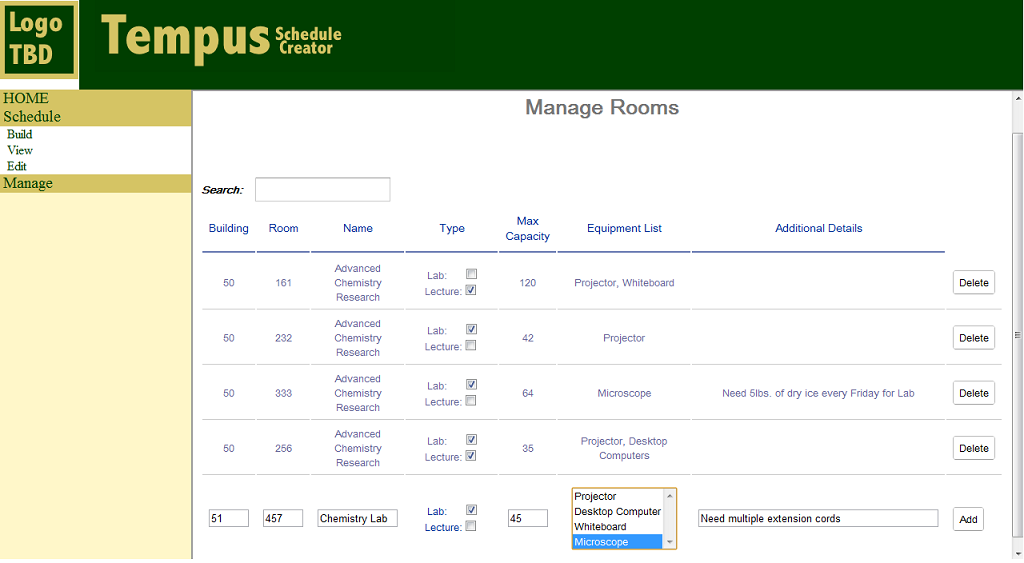
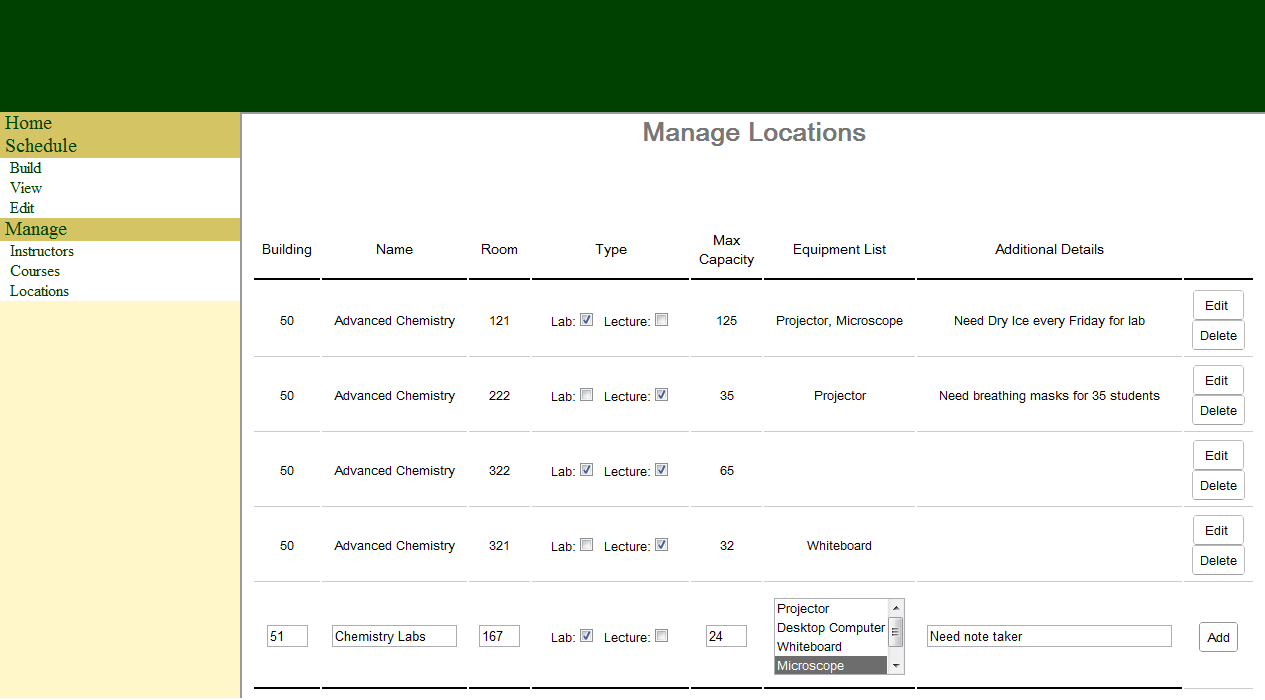
git-svn-id: svn+ssh://scheduler.csc.calpoly.edu/repo@509 13b268f7-8392-4c9d-bc7d-1e80a86bc2f9

diff --git a/requirements/walkthru/room-add.html b/requirements/walkthru/room-add.html
@@ -1,32 +1,21 @@
 <html>
-<head><title>GUI Walkthrough - <em>Manage Classroom</em> Add Room</title></head>
+<head>
+<LINK rel="stylesheet" href="walkthruPage.css" type="text/css">
+</head>
 <body>
-<table cellpadding=10>
-<tr><td>
-<h2 >Add Room</h2>
-</td></tr>
-<tr><td>
-<img src="../images/database-room-add.png">
-</td></tr>
-<tr><td>
-<table width=200 align="center">
-<tr><td align="left">
-<a href="room-manage.html"><-- Prev</a>
-</td><td align="center">
-<a href="index.html">Top</a>
-</td><td align="right">
-<a href="room-remove.html">Next --></a>
-</td></tr>
-</table>
-</td></tr>
-<tr><td>
-<br>This is the dialog that is displayed to the Administrator when trying to Add a Room to the database. 
-The Administrator must fill out the required fields <em>(in the last row of the table)</em> and double-click 
-on all applicable equipment and then click the <strong>Add Button</strong> in the bottom right corner.
-</td></tr>
-<tr><td>
-<!-- <a href="../database-room.html#Figure Add Room" target="_blank">Read more</a> -->
-</td></tr>
-</table>
+   <div id="blurb">
+      <p>
+         <h2>Add Location</h2>
+         <div id="links">
+            <a href="room-manage.html">&lt;&lt;&nbsp;&nbsp;Prev</a> - <a href="index.html">Top</a> - <a href="room-edit.html">Next&nbsp;&nbsp;&gt;&gt;</a>
+         </div>
+      </p>
+      <p>
+         The user can add a location to the database by inputing the data into the last row of the table and clicking the <strong>Add</strong> button.
+      </p>
+   </div>
+   <div id="screenshot">
+      <span></span><img src="../images/database-room-add.png" />
+   </div>
 </body>
 </html>

diff --git a/requirements/walkthru/room-manage.html b/requirements/walkthru/room-manage.html
@@ -1,31 +1,21 @@
 <html>
-<head><title>GUI Walkthrough - Main <em>Manage Rooms</em></title></head>
+<head>
+<LINK rel="stylesheet" href="walkthruPage.css" type="text/css">
+</head>
 <body>
-<table cellpadding=10>
-<tr><td>
-<h2>Manage Rooms </h2>
-</td></tr>
-<tr><td>
-<img src="../images/database-room-manage.png">
-</td></tr>
-<tr><td>
-<table width=200 align="center">
-<tr><td align="left">
-<a href="courses-add-with-data.html"><-- Prev</a>
-</td><td align="center">
-<a href="index.html">Top</a>
-</td><td align="right">
-<a href="room-add.html">Next --></a>
-</td></tr>
-</table>
-</td></tr>
-<tr><td>
-<br>This is the home screen that allows the Administrator to view and edit all Room information. If the Administrator wishes to edit
-any of the fields for a specific Room, he has to double-click on the cell. 
-</td></tr>
-<tr><td>
-<!-- <a href="../database-room.html#Manage Classrooms Dialog" target="_blank">Read more</a> -->
-</td></tr>
-</table>
+   <div id="blurb">
+      <p>
+         <h2>Manage Locations</h2>
+         <div id="links">
+            <a href="course-edit.html">&lt;&lt;&nbsp;&nbsp;Prev</a> - <a href="index.html">Top</a> - <a href="room-add.html">Next&nbsp;&nbsp;&gt;&gt;</a>
+         </div>
+      </p>
+      <p>
+         This is the home screen that allows the user to view and edit all Room information. To delete a location from the table the user click the <strong>Delete</strong> button.
+      </p>
+   </div>
+   <div id="screenshot">
+      <span></span><img src="../images/database-room-manage.png" />
+   </div>
 </body>
 </html>

diff --git a/requirements/walkthru/room-availability.html b/requirements/walkthru/room-availability.html
@@ -1,31 +1,21 @@
 <html>
-<head><title>GUI Walkthrough - <em>Manage Room</em> Room Availability</title></head>
+<head>
+<LINK rel="stylesheet" href="walkthruPage.css" type="text/css">
+</head>
 <body>
-<table cellpadding=10>
-<tr><td>
-<h2 >Room Availability</h2>
-</td></tr>
-<tr><td>
-<img src="../images/database-RoomAvailability.png">
-</td></tr>
-<tr><td>
-<table width=200 align="center">
-<tr><td align="left">
-<a href="room-remove.html"><-- Prev</a>
-</td><td align="center">
-<a href="index.html">Top</a>
-</td><td align="right">
-<a href="index.html">Next --></a>
-</td></tr>
-</table>
-</td></tr>
-<tr><td>
-<br>This is the Room Availability calender that is displayed to the Administrator 
-when double clicking on the cell of a specific Room in the <em>Manage Rooms</em> View.
-</td></tr>
-<tr><td>
-<!--<a href="../database-room.html#Figure Room Availability" target="_blank">Read more</a> -->
-</td></tr>
-</table>
+   <div id="blurb">
+      <p>
+         <h2>Location Availability</h2>
+         <div id="links">
+            <a href="room-edit.html">&lt;&lt;&nbsp;&nbsp;Prev</a> - <a href="index.html">Top</a> - <a href="index.html">Next&nbsp;&nbsp;&gt;&gt;</a>
+         </div>
+      </p>
+      <p>
+         This is the Location Availability calender that is displayed to the user when double clicking on the cell of a specific location in the <strong>Manage Locations</strong> view.
+      </p>
+   </div>
+   <div id="screenshot">
+      <span></span><img src="database-RoomAvailability.png" />
+   </div>
 </body>
 </html>

diff --git a/requirements/mockups/database-room-edit.html b/requirements/mockups/database-room-edit.html
@@ -1424,13 +1424,19 @@
 		</tr></tfoot>
 		<tbody>
 		<tr>
-		<td>50</td>
-		<td>Advanced Chemistry</td>
-		<td>121</td>
+		<td><input size="1"></td>
+		<td><input size="15"></td>
+		<td><input size="1"></td>
 		<td style="text-align: center; font-size:small">Lab:<input type="checkbox" checked="no" value="on" id="gwt-uid-1" tabindex="0">&nbsp;&nbsp;Lecture:<input type="checkbox" value="on" checked="no" id="gwt-uid-1" tabindex="0"></td>
-		<td>125</td>
-		<td>Projector, Microscope</td>
-		<td>Need Dry Ice every Friday for lab</td>
+		<td><input size="1"></td>
+		<td><select multiple="yes" size="2">
+			<option>Projector</option>
+			<option>Desktop Computer</option>
+			<option>Whiteboard</option>
+			<option>Microscope</option>
+			<option>Colored Markers</option>
+		</select></td>
+		<td><input size="35"></td>
 		<td><button type="button" class="gwt-Button">&nbspEdit&nbsp&nbsp</button><button type="button" class="gwt-Button">Delete</button></td>
 		</tr>
 		<tr>

diff --git a/requirements/walkthru/room-edit.html b/requirements/walkthru/room-edit.html
@@ -1,0 +1,22 @@
+<html>
+<head>
+<LINK rel="stylesheet" href="walkthruPage.css" type="text/css">
+</head>
+<body>
+   <div id="blurb">
+      <p>
+         <h2>Edit Location</h2>
+         <div id="links">
+            <a href="room-add.html">&lt;&lt;&nbsp;&nbsp;Prev</a> - <a href="index.html">Top</a> - <a href="room-availability.html">Next&nbsp;&nbsp;&gt;&gt;</a>
+         </div>
+      </p>
+      <p>
+         The user can edit a location's information by clicking on the edit button, which makes the row editable, as in this example. 
+		 The user can then make the desired changes and click the <strong>Accept</strong> button, or they can click <strong>Cancel</strong>. 
+      </p>
+   </div>
+   <div id="screenshot">
+      <span></span><img src="SCREENSHOT_HERE.png" />
+   </div>
+</body>
+</html>
